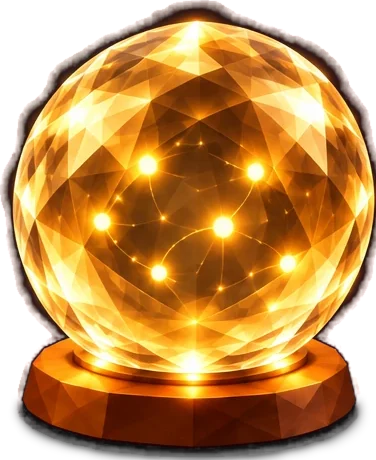
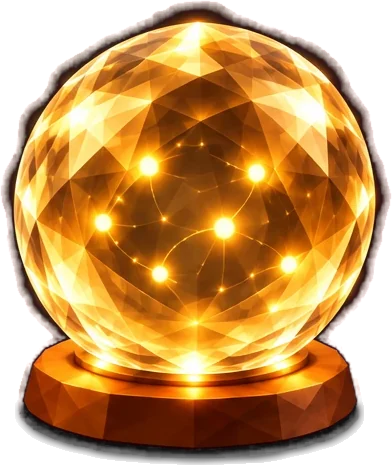
Regenbogen- und Gold-Kugel nicht mehr abgeschnitten (1.66.1)

diff --git a/index.html b/index.html
@@ -1320,7 +1320,7 @@ html::before{ content:''; position:fixed; left:0; right:0; top:0; height:var(--s
 
 <script>
 /* Bump on every published update, so it's visible at a glance whether the newest version is loaded. */
-const APP_VERSION = '1.66.0';
+const APP_VERSION = '1.66.1';
 // Starter entries for Achtsamkeit: the samples are only used when the app has no saved data yet (a genuinely
 // fresh browser) — after that, each person's own additions and deletions are theirs alone.
 const DEFAULT_MEDITATIONEN = [

diff --git a/CLAUDE.md b/CLAUDE.md
@@ -124,7 +124,7 @@ Der Nutzer ist kein Entwickler. Erkläre Schritte einfach und auf Deutsch.
 - Veröffentlicht über **GitHub Pages** aus diesem Repository (Branch `main`, Ordner `/`):
   https://k9vk58y99f-max.github.io/k9vk58y99f-max.github.io-ewolfe-app-/
 - Ein Commit + Push auf `main` ist die Veröffentlichung; nach 1–2 Minuten ist es live.
-- Bei jeder Änderung `APP_VERSION` erhöhen (aktuell `1.66.0`) und `APP_BUILD` anpassen.
+- Bei jeder Änderung `APP_VERSION` erhöhen (aktuell `1.66.1`) und `APP_BUILD` anpassen.
   Die Version steht unten in der App.
 
 ## Neu seit 1.55.0 (iPad, Wischen, Tagebuch, Sticker, Impulskarten)
